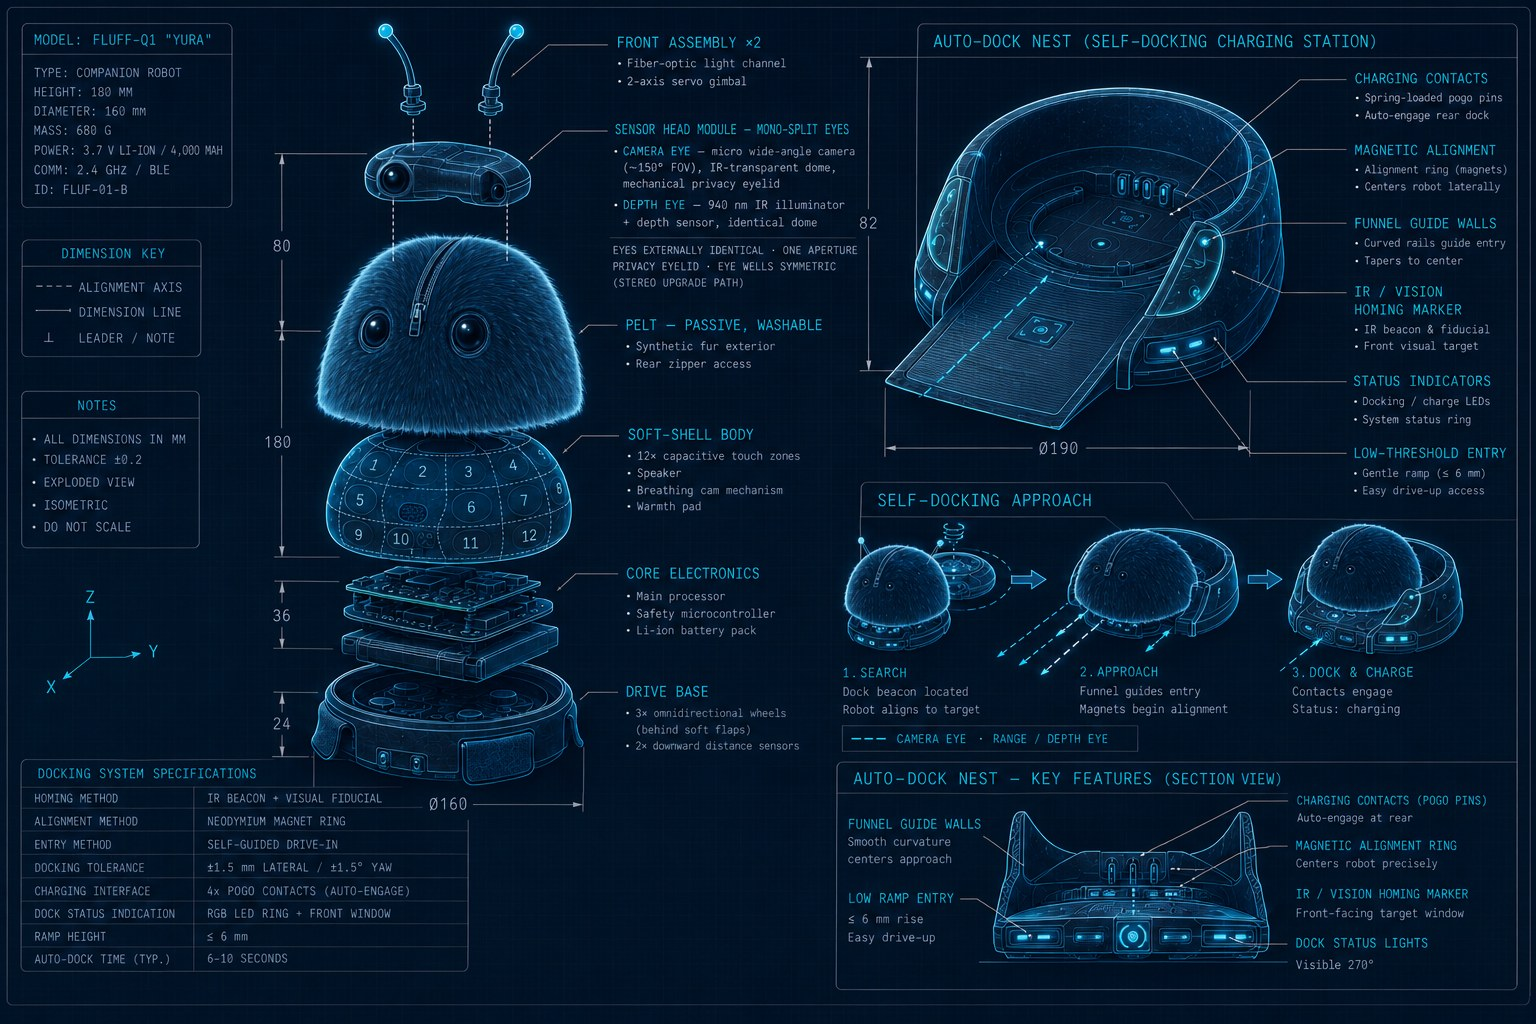
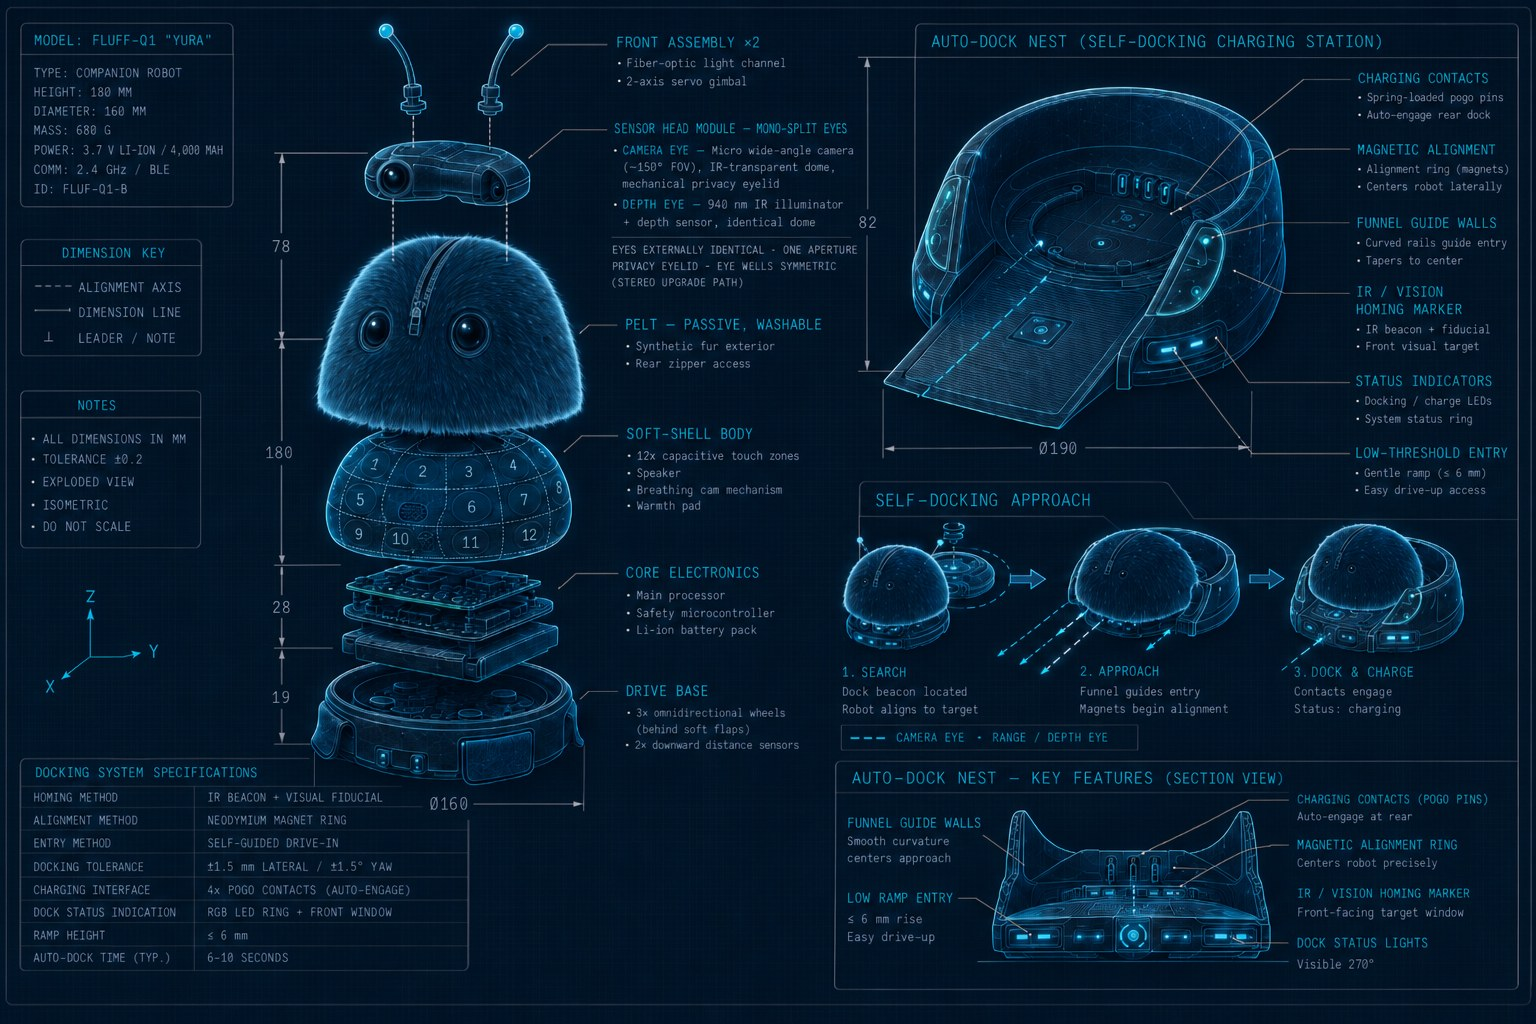
ailab/pet: fixed Rev B2 sheets + auto-dock nest re-cost
Swap in the corrected blueprint renders (typos and dimension chain fixed;
remaining small glitches recorded in the memory for the next art pass).
Re-cost the auto-dock nest, which shipped in the art without a BOM update:
dock $10-15 -> $14-22, landed COGS midpoint $235 -> $240, gross 40-52%.
Components G rewritten from passive crater to self-docking station; Market
06 and HQ synced.

diff --git a/public/ailab/pet/components/index.html b/public/ailab/pet/components/index.html
@@ -178,7 +178,7 @@
       </div>
       <div class="asm dockrow">
         <h4>Nest dock <span class="tag">G · off-body</span></h4>
-        <p>Charging crater with IR homing beacon. Where Yura sleeps and dreams.</p>
+        <p>Self-docking charging station: funnel guide walls, magnet alignment, pogo contacts, IR beacon. Where Yura sleeps and dreams.</p>
       </div>
     </div>
   </section>
@@ -251,11 +251,12 @@
     <span class="chip">soft bumper ring</span>
 
     <h3>G · Nest dock</h3>
-    <p>A weighted crater the drive base settles into — self-docking via IR beacon, charging via pogo pads. Styled as a mossy stone so it reads as habitat, not charger.</p>
-    <span class="chip">pogo charge pads (5 V / 2 A)</span>
-    <span class="chip">IR homing beacon</span>
-    <span class="chip">USB-C PD wall supply</span>
-    <span class="chip">felt-lined crater, weighted base</span>
+    <p>A self-docking charging station the drive base glides into on its own: the camera eye reads the IR beacon and visual fiducial, funnel guide walls and a neodymium magnet ring center the final approach (±1.5 mm lateral tolerance), and four spring-loaded pogo contacts auto-engage at the rear — typical dock time 6–10 seconds over a ≤6 mm ramp. Styled as habitat, not charger; an RGB ring and front window show dock and charge status.</p>
+    <span class="chip">4× spring pogo contacts (auto-engage)</span>
+    <span class="chip">neodymium magnet alignment ring</span>
+    <span class="chip">funnel guide walls + ≤6 mm ramp</span>
+    <span class="chip">IR beacon + visual fiducial</span>
+    <span class="chip">RGB status ring · USB-C PD wall supply</span>
   </section>
 
   <section>

diff --git a/public/ailab/pet/market/index.html b/public/ailab/pet/market/index.html
@@ -200,18 +200,18 @@
       <tr><td>Power</td><td class="num">$8–12 <span style="color:var(--muted);font-weight:400;">— 4,000 mAh battery, BMS, charging</span></td></tr>
       <tr><td>Expression</td><td class="num">$7 <span style="color:var(--muted);font-weight:400;">— speaker/amp, fiber optics, RGB</span></td></tr>
       <tr><td>Body</td><td class="num">$27–38 <span style="color:var(--muted);font-weight:400;">— washable pelt, soft-shell chassis, mechanicals</span></td></tr>
-      <tr><td>Nest dock</td><td class="num">$10–15</td></tr>
+      <tr><td>Nest dock</td><td class="num">$14–22 <span style="color:var(--muted);font-weight:400;">— auto-dock nest: funnel guide walls, magnet alignment ring, pogo contacts, IR beacon, status ring</span></td></tr>
       <tr><td>Build</td><td class="num">$30–43 <span style="color:var(--muted);font-weight:400;">— PCBs, wiring, assembly, test, packaging</span></td></tr>
-      <tr class="hl"><td class="us">BOM total</td><td class="num us">≈ $187–257 → ~$210–262 landed COGS with freight, duty, yield, warranty</td></tr>
+      <tr class="hl"><td class="us">BOM total</td><td class="num us">≈ $191–264 → ~$214–269 landed COGS with freight, duty, yield, warranty</td></tr>
     </table></div>
-    <p><b>Per unit at $449 direct-to-consumer:</b> roughly <b>$187–239 gross profit — a 42–53% gross margin</b>, healthy for consumer hardware. (The mono-split eye layout — camera in one eye, depth sensing in the other — was chosen over stereo eyes partly for this: stereo would cost about two margin points.) It roughly halves through retail channels (30–40 points to the retailer) — a strong argument for launching D2C, as Lovot did. The Deep Bond subscription is the opposite shape: $9/mo against an estimated $1.50–3.00/mo of cloud cost (cognition is asynchronous and batched by design) — a <b>70–80% margin recurring stream</b>.</p>
+    <p><b>Per unit at $449 direct-to-consumer:</b> roughly <b>$180–235 gross profit — a 40–52% gross margin</b>, healthy for consumer hardware. (The mono-split eye layout — camera in one eye, depth sensing in the other — was chosen over stereo eyes partly for this: stereo would cost about two margin points.) It roughly halves through retail channels (30–40 points to the retailer) — a strong argument for launching D2C, as Lovot did. The Deep Bond subscription is the opposite shape: $9/mo against an estimated $1.50–3.00/mo of cloud cost (cognition is asynchronous and batched by design) — a <b>70–80% margin recurring stream</b>.</p>
     <div class="tbl"><table>
       <tr><th>Scenario P&amp;L</th><th class="num">Hardware gross</th><th class="num">Sub gross (yr 2)</th><th class="num">Est. opex</th><th class="num">Operating result</th></tr>
-      <tr><td>Bear — 5k units/yr</td><td class="num">$1.1 M</td><td class="num">$0.15 M</td><td class="num">$3 M+</td><td class="num">−$1.8 M/yr — fails fast</td></tr>
-      <tr class="hl"><td class="us">Base — 20k units/yr</td><td class="num us">$4.3 M</td><td class="num us">$1.0 M</td><td class="num us">$3.5–4.5 M</td><td class="num us">≈ break-even</td></tr>
+      <tr><td>Bear — 5k units/yr</td><td class="num">$1.0 M</td><td class="num">$0.15 M</td><td class="num">$3 M+</td><td class="num">−$1.8 M/yr — fails fast</td></tr>
+      <tr class="hl"><td class="us">Base — 20k units/yr</td><td class="num us">$4.2 M</td><td class="num us">$1.0 M</td><td class="num us">$3.5–4.5 M</td><td class="num us">≈ break-even</td></tr>
       <tr><td>Bull — 100k units/yr</td><td class="num">$21 M</td><td class="num">$6 M</td><td class="num">$8–12 M</td><td class="num">+$15–19 M (~30%)</td></tr>
     </table></div>
-    <p class="note"><b>Assumptions:</b> $235 COGS midpoint (mono-split eyes); a lean 12–18 person team, support, and marketing in opex; ~$2–4 M one-time NRE (tooling, molds, FCC/CE certification) before unit one, not shown in the annual figures. <b>The structural read:</b> hardware margin keeps the lights on, but the business lives in the subscription — at scale every point of Deep Bond attach is nearly pure margin, and a non-subscriber costs almost nothing in cloud spend. Matching Moflin (base case) makes Yura sustainable but not yet a business; profitability arrives around 30–40k units/yr or subscription attach above ~40%.</p>
+    <p class="note"><b>Assumptions:</b> $240 COGS midpoint (mono-split eyes + auto-dock nest); a lean 12–18 person team, support, and marketing in opex; ~$2–4 M one-time NRE (tooling, molds, FCC/CE certification) before unit one, not shown in the annual figures. <b>The structural read:</b> hardware margin keeps the lights on, but the business lives in the subscription — at scale every point of Deep Bond attach is nearly pure margin, and a non-subscriber costs almost nothing in cloud spend. Matching Moflin (base case) makes Yura sustainable but not yet a business; profitability arrives around 30–40k units/yr or subscription attach above ~40%.</p>
   </section>
 
   <section>

diff --git a/public/ailab/pet/hq/index.html b/public/ailab/pet/hq/index.html
@@ -164,7 +164,7 @@
       <div class="stat"><p class="k">Dossier pages</p><p class="v">4</p></div>
       <div class="stat"><p class="k">Pelt series</p><p class="v">3 <small>+ 5 colorways</small></p></div>
     </div>
-    <p class="note"><b>North-star gate:</b> the business becomes real at <b>~30–40k units/yr or &gt;40% Deep Bond attach</b> ($449 hardware · $9/mo sub · ~$235 COGS midpoint, mono-split eyes — full model on the <a href="/ailab/pet/market/">Market page</a>). Everything on this page exists to march toward, or invalidate, that number cheaply.</p>
+    <p class="note"><b>North-star gate:</b> the business becomes real at <b>~30–40k units/yr or &gt;40% Deep Bond attach</b> ($449 hardware · $9/mo sub · ~$240 COGS midpoint, mono-split eyes + auto-dock nest — full model on the <a href="/ailab/pet/market/">Market page</a>). Everything on this page exists to march toward, or invalidate, that number cheaply.</p>
   </section>
 
   <section>
@@ -234,6 +234,7 @@
     <p class="sec-label"><b>05</b> · Log</p>
     <h2>Milestone log</h2>
     <ul class="log">
+      <li><time>2026-07-17</time><span>Fixed Rev B2 sheets landed (typos + dimension chain cured; a few smaller glitches noted in memory for the next art pass). <b>Auto-dock nest re-costed</b> — it had shipped in the art without a BOM update: dock $10–15 → $14–22, landed COGS midpoint <b>$235 → $240</b>, gross 40–52%; Market and Components synced.</span></li>
       <li><time>2026-07-17</time><span><b>Rev B2 blueprints landed</b> — both sheets regenerated with mono-split eyes and corrected title blocks (180 mm / Ø160 / 680 g / 3.7 V / 4,000 mAh). Closes two long-open items: the invented blueprint specs and the stereo art debt. Design pages, spec, model, and art now all agree.</span></li>
       <li><time>2026-07-17</time><span><b>Vision architecture decided: mono-split eyes.</b> Camera + mechanical privacy eyelid in one IR-transparent dome, ToF + IR illuminator in the other, externally identical; eye wells symmetric so stereo stays a drop-in upgrade. COGS midpoint back to <b>$235</b> (stereo would have cost ~2 margin points); spec, components, market, and bom-model synced.</span></li>
       <li><time>2026-07-17</time><span>BOM re-costed via bom-model for the stereo eyes: landed COGS midpoint <b>$235 → $245</b>, gross margin 42–53% → 40–51%; Market page synced. Mono-eye option (~$10 back) documented in the vision decision.</span></li>

diff --git a/public/ailab/pet/CLAUDE.md b/public/ailab/pet/CLAUDE.md
@@ -10,9 +10,9 @@ page, and analysis added here should serve that goal. The current business thesi
 `market/index.html`, concept-stage estimates, July 2026):
 
 - **Price:** $449 D2C hardware + optional $9/mo "Deep Bond" subscription.
-- **Cost:** BOM ≈ $187–257 → ~$210–262 landed COGS ($235 midpoint, mono-split eyes;
-  stereo would add ~$10). Gross ~$187–239/unit (42–53%); subscription runs 70–80%
-  margin ($1.50–3.00/mo cloud cost).
+- **Cost:** BOM ≈ $191–264 → ~$214–269 landed COGS ($240 midpoint, mono-split eyes +
+  auto-dock nest; stereo would add ~$10). Gross ~$180–235/unit (40–52%); subscription
+  runs 70–80% margin ($1.50–3.00/mo cloud cost).
 - **Scenarios:** Bear 5k units/yr = −$2M (fails fast). Base 20k/yr (Moflin parity) ≈
   break-even. Bull 100k/yr = +$12–18M operating. **Profitability gate: ~30–40k units/yr
   or >40% subscription attach.** ~$2–4M NRE before unit one.
@@ -62,11 +62,16 @@ on every page.**
 
 ## Known issues
 
-- (2026-07-17, cosmetic) The Rev B2 blueprints carry minor AI text glitches — the
-  head sheet's quick-spec says "FYE CUP SETBACK" and the dimension key "DIADETER",
-  and the exploded sheet's internal dimension chain (80/36/24) doesn't perfectly
-  sum against the head sheet's 78/28/19 — totals and title blocks are correct.
-  Fix opportunistically on the next art regeneration; not worth its own cycle.
+- (2026-07-17, cosmetic, second pass) The fixed Rev B2 sheets cured the original
+  typos (EYE CUP SETBACK, DIAMETER, 78/28/19 chain) but introduced new small ones —
+  fix opportunistically on the next art regeneration, not worth their own cycle:
+  - Head sheet title block reads "FLUFF-01" (dropped the Q) vs the exploded
+    sheet's "FLUFF-Q1"; the exploded ID drifted to "FLUF-Q1-B" (was FLUF-01-B).
+  - Head sheet facial-sensing note reads "EYELID CLOSED = VERTICALLY BLIND" —
+    should be "VERIFIABLY BLIND".
+  - Head sheet [1A] callout 3 garbles "Ø16 mm" as "16~ mm".
+  - Exploded chain now shows 78/28/19 correctly but the soft-shell body's "55"
+    segment is unlabeled.
 
 Resolved (kept for context):
 - ~~Blueprint title-block specs invented (7.4 V / 1.45 kg / 228 mm / 2,600 mAh)~~ —
@@ -110,6 +115,11 @@ until a tool actually measures it.
 
 Append-only; date + one line each. Newest first.
 
+- 2026-07-17 — Fixed Rev B2 sheets landed (typos cured, dimension chain 78/28/19);
+  new smaller glitches recorded in Known issues. **Auto-dock nest re-costed** —
+  it had shipped in the art without a BOM update: nest-dock $10–15 → $14–22,
+  landed midpoint $235 → $240, gross 40–52%. Market §06 and Components §G synced
+  (G rewritten from passive crater to self-docking station).
 - 2026-07-17 — Rev B2 blueprints landed (regenerated by user from prompts):
   mono-split eyes on both sheets, corrected title blocks (180 mm / Ø160 / 680 g /
   3.7 V / 4,000 mAh) — closes both the invented-specs issue and the mono-split